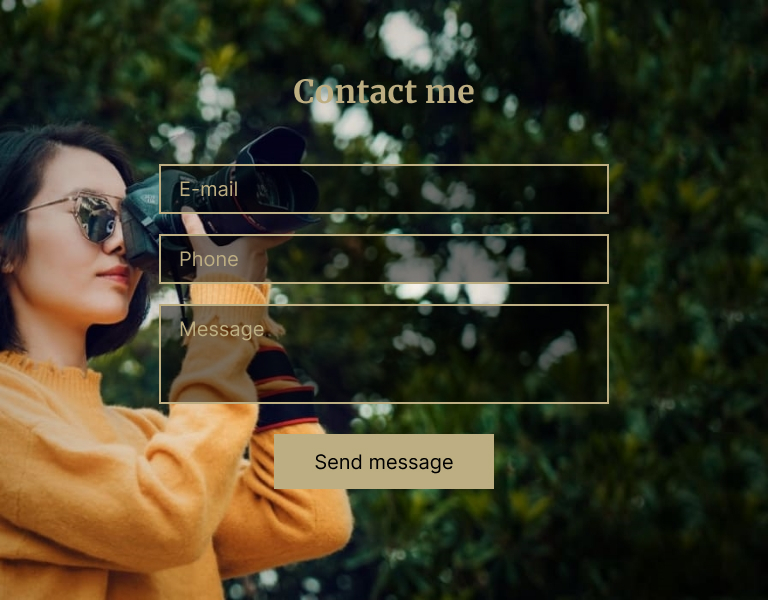
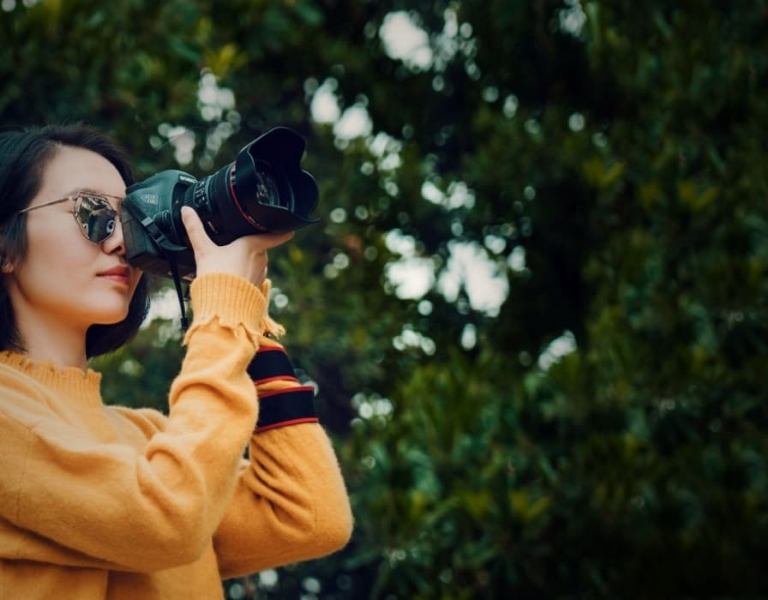
feat: add contacts tablet layout

diff --git a/portfolio/style.css b/portfolio/style.css
@@ -611,4 +611,40 @@ textarea {
         height: 75px;
     }
 
+/* --------- Video (tablet) --------- */  
+
+    #price .section-title {
+        margin-bottom: 70px;
+    }
+
+    .price-item {
+        width: 420px;
+        margin-bottom: 25px;
+        padding-bottom: 40px;
+    }
+
+    .price-items {
+        margin-bottom: 55px;
+    }
+
+/* --------- Video (tablet) --------- */ 
+
+    .contacts-section {
+        align-items: center;
+        background: url("assets/img/contacts-tablet.jpg");
+        background-size: auto 600px;
+        background-repeat: no-repeat;
+        background-position: center center;
+        padding-bottom: 111px;
+    }
+
+    .contacts-items {
+        align-items: center;
+        padding-top: 0px;
+        margin-right: 0px;
+    }
+
+    .contacts-title {
+        font-size: 32px;
+    }
 }
